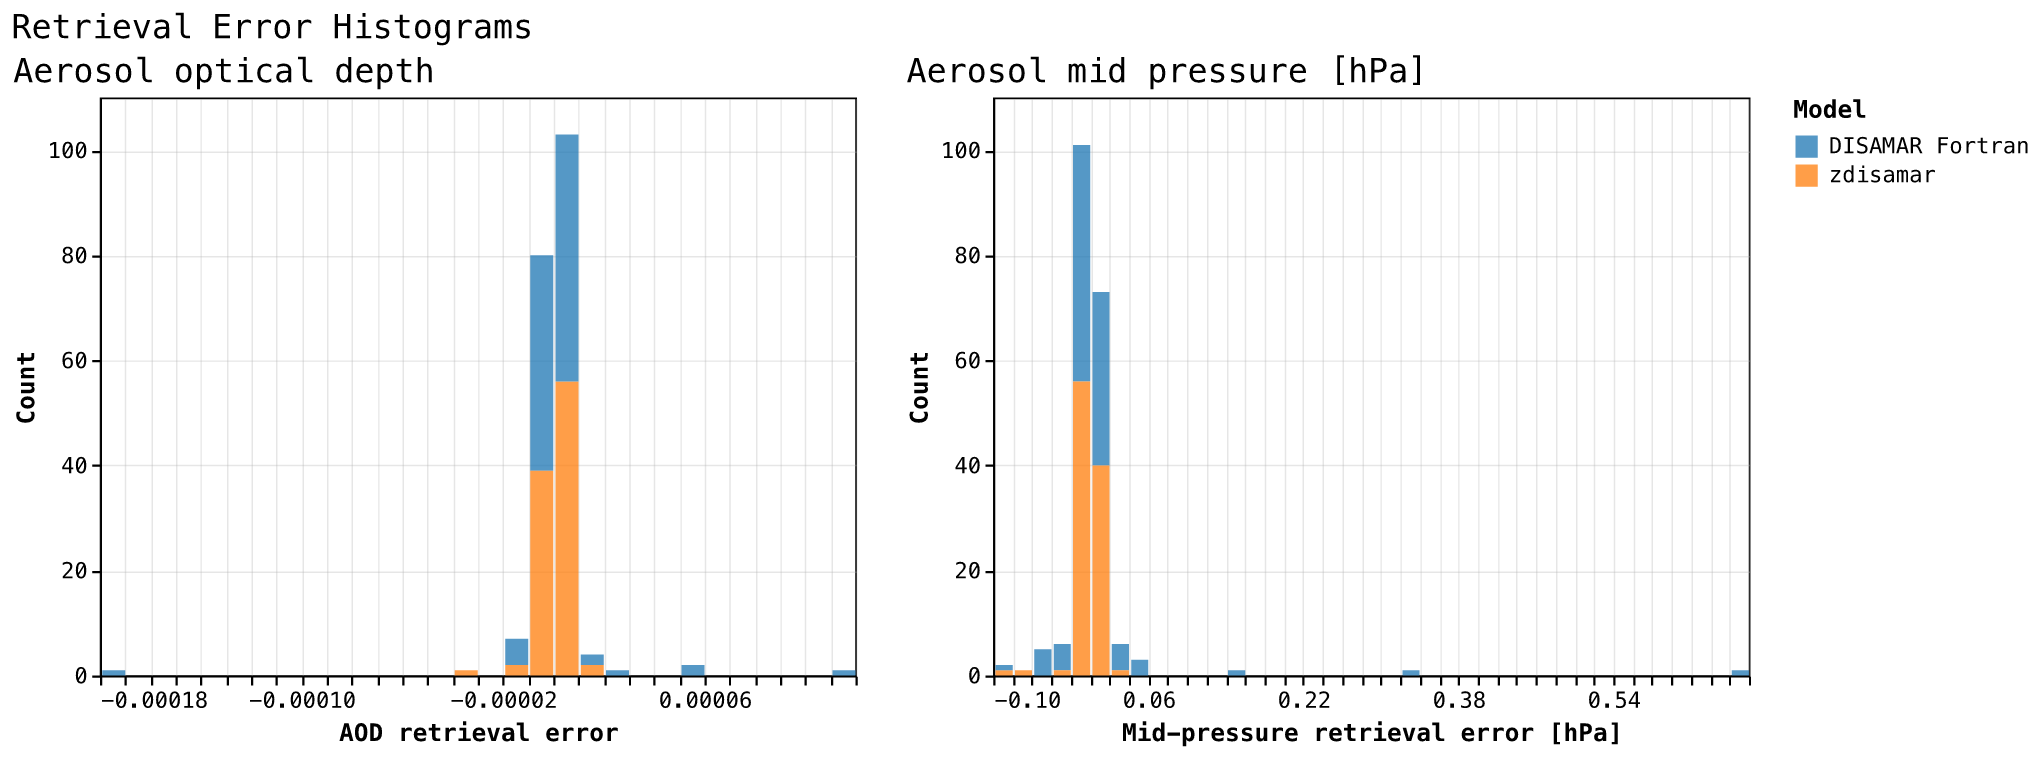
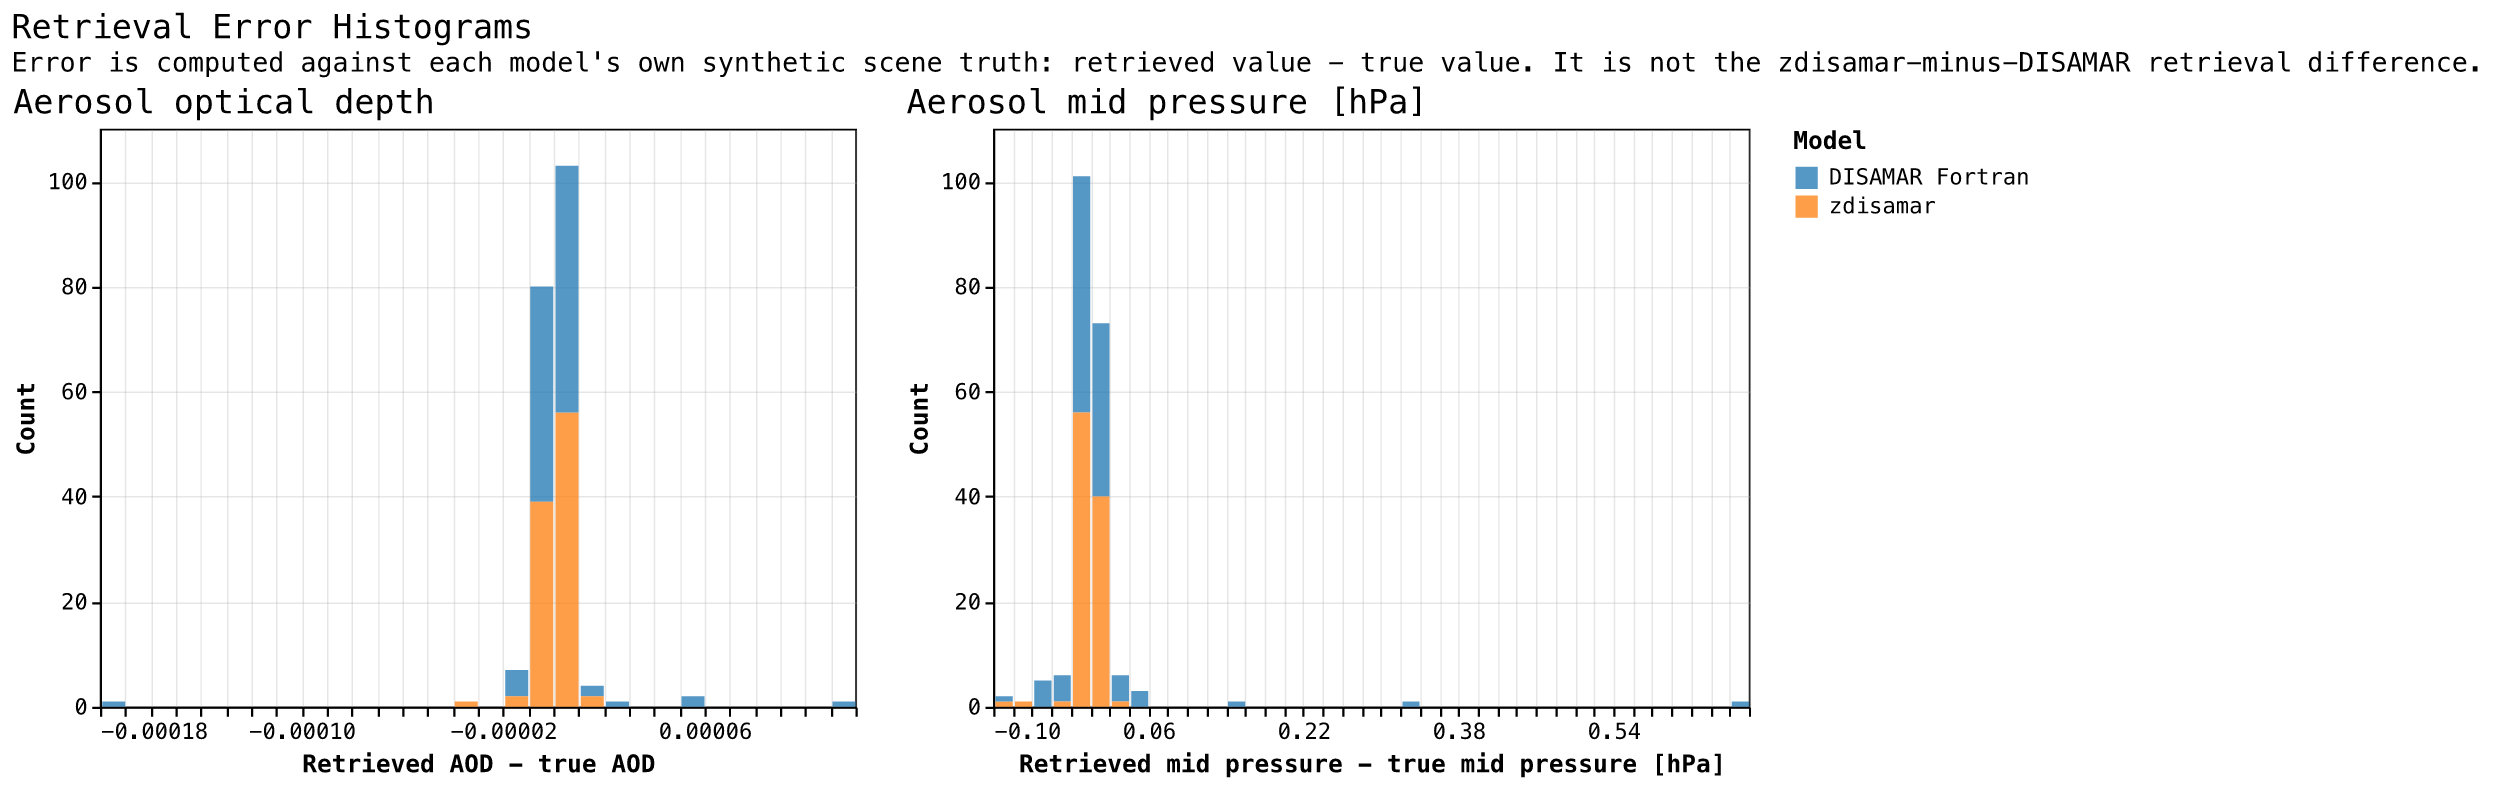
Clarify paired OE plot errors

diff --git a/validation/optimal_estimation/plot_paired_disamar_zdisamar.py b/validation/optimal_estimation/plot_paired_disamar_zdisamar.py
@@ -115,7 +115,36 @@ def error_rows(frame: pl.DataFrame) -> pl.DataFrame:
     return pl.concat([aod, pressure])
 
 
-def save_retrieved_plot(frame: pl.DataFrame) -> None:
+def paired_difference_rows(frame: pl.DataFrame) -> pl.DataFrame:
+    ok = frame.filter(pl.col("status") == "ok")
+    wide = ok.pivot(
+        "model",
+        index="case",
+        values=[
+            "retrieved_aerosol_optical_depth",
+            "retrieved_aerosol_mid_pressure_hpa",
+        ],
+    )
+    aod = wide.select(
+        "case",
+        pl.lit("Aerosol optical depth").alias("parameter"),
+        (
+            pl.col("retrieved_aerosol_optical_depth_zdisamar")
+            - pl.col("retrieved_aerosol_optical_depth_disamar_fortran")
+        ).alias("difference"),
+    )
+    pressure = wide.select(
+        "case",
+        pl.lit("Aerosol mid pressure [hPa]").alias("parameter"),
+        (
+            pl.col("retrieved_aerosol_mid_pressure_hpa_zdisamar")
+            - pl.col("retrieved_aerosol_mid_pressure_hpa_disamar_fortran")
+        ).alias("difference"),
+    )
+    return pl.concat([aod, pressure])
+
+
+def retrieved_scatter_row(frame: pl.DataFrame) -> alt.HConcatChart:
     data = retrieved_rows(frame)
     charts = []
     for parameter in data["parameter"].unique().to_list():
@@ -160,7 +189,60 @@ def save_retrieved_plot(frame: pl.DataFrame) -> None:
             .properties(title=str(parameter), width=340, height=300)
         )
         charts.append(points + line)
-    chart = alt.hconcat(*charts).properties(title="Retrieved State Versus Truth")
+    return alt.hconcat(*charts)
+
+
+def paired_difference_histogram_row(frame: pl.DataFrame) -> alt.HConcatChart:
+    data = paired_difference_rows(frame)
+    charts = []
+    for parameter, x_title in (
+        ("Aerosol optical depth", "zdisamar retrieved - DISAMAR retrieved"),
+        (
+            "Aerosol mid pressure [hPa]",
+            "zdisamar retrieved - DISAMAR retrieved [hPa]",
+        ),
+    ):
+        subset = data.filter(pl.col("parameter") == parameter)
+        zero_line = (
+            alt.Chart(pl.DataFrame([{"zero": 0.0}]))
+            .mark_rule(color="black", strokeDash=[4, 3], strokeWidth=1)
+            .encode(x="zero:Q")
+        )
+        histogram = (
+            alt.Chart(subset)
+            .mark_bar(color=VALIDATION_BLUE, opacity=0.78)
+            .encode(
+                x=alt.X("difference:Q", bin=alt.Bin(maxbins=45), title=x_title),
+                y=alt.Y("count():Q", title="Count"),
+                tooltip=[
+                    "parameter:N",
+                    alt.Tooltip("count():Q", title="count"),
+                ],
+            )
+            .properties(title=parameter, width=340, height=220)
+        )
+        charts.append(histogram + zero_line)
+    return alt.hconcat(*charts)
+
+
+def save_retrieved_plot(frame: pl.DataFrame) -> None:
+    chart = (
+        alt.vconcat(
+            retrieved_scatter_row(frame),
+            paired_difference_histogram_row(frame),
+        )
+        .resolve_scale(x="independent", y="independent")
+        .properties(
+            title=alt.TitleParams(
+                text="Retrieved State Versus Truth",
+                subtitle=(
+                    "Top: each model retrieval against known synthetic truth. "
+                    "Bottom: paired retrieval difference per scene "
+                    "(zdisamar - DISAMAR Fortran)."
+                ),
+            )
+        )
+    )
     chart.save(RETRIEVED_PLOT_PATH, ppi=160)
 
 
@@ -168,8 +250,11 @@ def save_error_histograms(frame: pl.DataFrame) -> None:
     data = error_rows(frame)
     charts = []
     for parameter, x_title in (
-        ("Aerosol optical depth", "AOD retrieval error"),
-        ("Aerosol mid pressure [hPa]", "Mid-pressure retrieval error [hPa]"),
+        ("Aerosol optical depth", "Retrieved AOD - true AOD"),
+        (
+            "Aerosol mid pressure [hPa]",
+            "Retrieved mid pressure - true mid pressure [hPa]",
+        ),
     ):
         subset = data.filter(pl.col("parameter") == parameter)
         chart = (
@@ -192,7 +277,16 @@ def save_error_histograms(frame: pl.DataFrame) -> None:
             .properties(title=parameter, width=340, height=260)
         )
         charts.append(chart)
-    chart = alt.hconcat(*charts).properties(title="Retrieval Error Histograms")
+    chart = alt.hconcat(*charts).properties(
+        title=alt.TitleParams(
+            text="Retrieval Error Histograms",
+            subtitle=(
+                "Error is computed against each model's own synthetic scene truth: "
+                "retrieved value - true value. It is not the zdisamar-minus-DISAMAR "
+                "retrieval difference."
+            ),
+        )
+    )
     chart.save(ERROR_HISTOGRAM_PATH, ppi=160)
 
 
